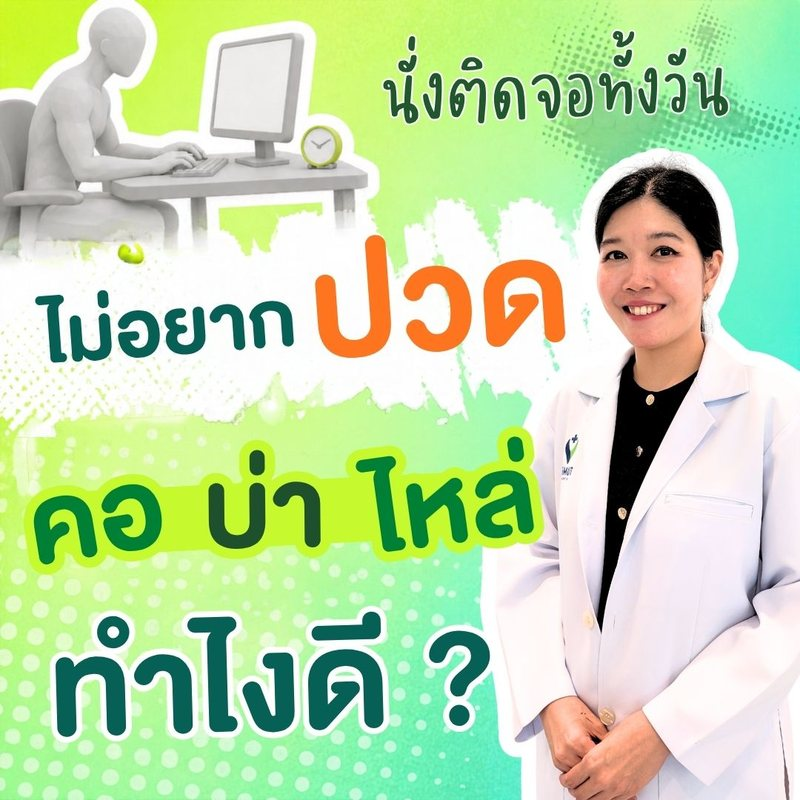
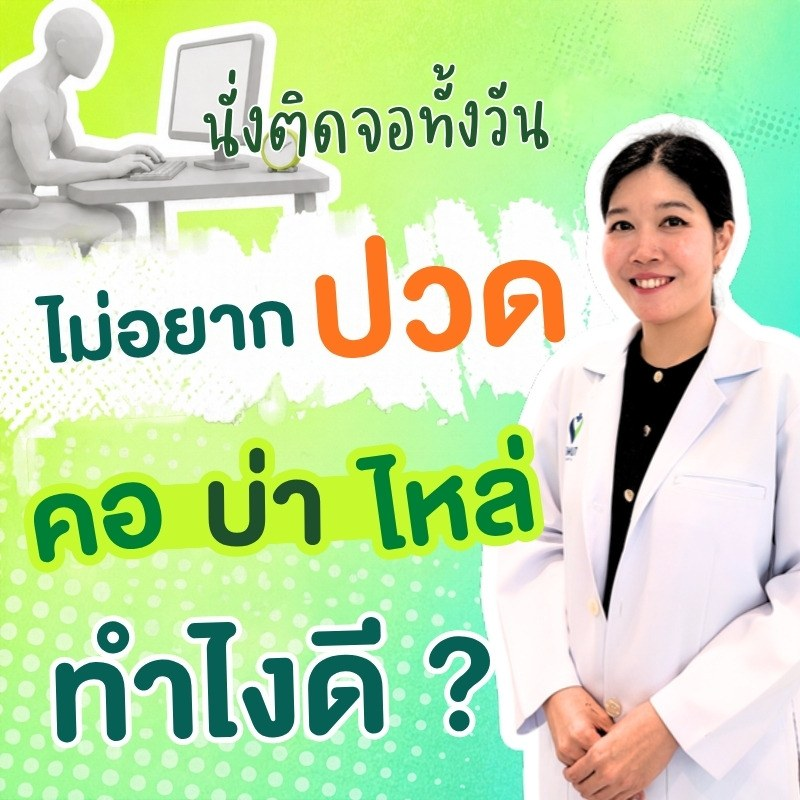
Fill SB Design Square clips, hide Project VTR, update BODY HACK cover
- SB Design Square: Mattress Expo now has its 3 public Facebook clips
  (concept, shoot, voiceover, edit) and moves up with the clip works.
- Per-clip format (vertical/horizontal): Facebook /videos/ can be
  vertical and /reel/ horizontal; the viewer frame follows the clip.
- Project VTR hidden (internal event). AIS Sports Day 2024 reel added
  hidden until the owner confirms their role.
- BODY HACK cover replaced with the revised Canva page 6.
- Cover checklist: free page order with a Canva page column.

Claude-Session: https://claude.ai/code/session_01QeH5SpQLZ7BwsZc6TsE6Mb

diff --git a/public/content.js b/public/content.js
@@ -466,6 +466,39 @@ window.WORKS = [
     details: { platform: "TikTok · vertical · 1:11 (2026)" },
   },
 
+  {
+    title: "SB Design Square: Mattress Expo",
+    // คลิปจากเพจ Mattress World (เพจที่นอนของ SB Design Square) · format = รูปทรงคลิป (เว็บเดาจากลิงก์ไม่ได้)
+    clips: [
+      { url: "https://www.facebook.com/reel/1368411784467787", label: "Mattress Expo: more deals than ever", format: "horizontal" },
+      { url: "https://www.facebook.com/SBMattressWorld/videos/1226994228963363/", label: "Everything in one place", format: "vertical" },
+      { url: "https://www.facebook.com/SBMattressWorld/videos/3974091859510343/", label: "Home and mattress deals in one trip", format: "vertical" },
+    ],
+    images: [{ src: "images/work/video-sb-design-square.jpg" }],   // ใช้เป็นปกสำรองจนกว่าจะมีปกทำเอง
+    categories: ["Short-form & Social"],
+    tags: ["UGC", "Review", "Product", "Voiceover"],
+    client: "SB Design Square",
+    year: "",   // TODO
+    role: ["Concept", "Shoot", "Voiceover", "Edit"],
+    highlight: "UGC-style promo clips for SB Design Square's Mattress Expo sale, made start to finish by me.",
+    details: {
+      platform: "Facebook · Mattress World page · 0:25 to 0:47 per clip",
+      responsibility: "Came up with the ideas, shot, voiced and edited all three clips.",
+    },
+  },
+  {
+    title: "AIS Sports Day 2024: Team Captains",
+    wip: true,   // ซ่อนไว้ก่อน: รอข้อมูลหน้าที่ (role) แล้วค่อยเอาออก
+    clips: ["https://www.facebook.com/reel/870470888570657"],
+    categories: ["Brand & Corporate", "Event & Creator Content", "Short-form & Social"],
+    tags: ["Event", "Teaser", "Facebook Reels"],
+    client: "AIS Club",
+    year: "2024",
+    role: [],   // TODO
+    highlight: "Pre-event teaser for AIS Sports Day 2024: how ready each colour team's captain is before the big day.",
+    details: { platform: "Facebook Reels · vertical · 1:07" },
+  },
+
   // ================= งานจากพอร์ต Canva เก่า (รูปอยู่ใน public/images/work) =================
   // ช่องที่เขียน TODO = ยังไม่มีข้อมูล เติมทีหลังได้ / ถ้าได้ลิงก์คลิป ใส่ใน clips: ["..."] แล้วรูปจะถูกแทนด้วยคลิป
 
@@ -665,16 +698,6 @@ window.WORKS = [
     },
   },
   {
-    title: "SB Design Square: Mattress Expo",
-    clips: [],   // TODO
-    images: [{ src: "images/work/video-sb-design-square.jpg" }],
-    categories: ["Short-form & Social"],
-    tags: ["Review", "Product"],
-    client: "SB Design Square",
-    role: [],   // TODO
-    highlight: "",   // TODO
-  },
-  {
     title: "Songkran Greeting: Before / After",
     clips: [],   // TODO
     images: [{ src: "images/work/video-songkran-ecard-before-after.jpg" }],
@@ -686,6 +709,7 @@ window.WORKS = [
   },
   {
     title: "Project VTR",
+    wip: true,   // ซ่อน: เป็นงานอีเวนต์ภายใน ยังไม่แน่ใจว่าแชร์คลิปได้
     clips: [],   // TODO
     images: [{ src: "images/work/video-project-vtr.jpg" }],
     categories: ["Brand & Corporate"],

diff --git a/public/app.js b/public/app.js
@@ -591,6 +591,9 @@
       cats: asList(w.categories || w.category),
       tagList: asList(w.tags),
       roles: mergeRoles(w.role, clipMeta[0] && clipMeta[0].role),
+      // รูปทรงคลิป: format ของคลิปนั้น > format ของทั้งงาน > เดาจากลิงก์
+      projectFormat: w.format,
+      format: (clipMeta[0] && clipMeta[0].format) || w.format,
       highlightText: w.highlight || w.description || "",
       info: info,
       original: original,
@@ -761,8 +764,10 @@
         });
         b.addEventListener("click", () => {
           if (b.getAttribute("aria-pressed") === "true") return;
-          const next = makePlayer(Object.assign({}, w, { url: u, thumbnail: i === 0 ? w.thumbnail : "" }));
+          const next = makePlayer(Object.assign({}, w, { url: u, format: w.clipMeta[i].format || w.projectFormat, thumbnail: i === 0 ? w.thumbnail : "" }));
           box.replaceChild(next.node, player.node);
+          // งานที่มีทั้งคลิปแนวตั้งและแนวนอน: ปรับกรอบให้ตามคลิปที่เลือก
+          if (box.parentNode) box.parentNode.classList.toggle("is-vertical", !!next.vertical);
           player = next;
           btns.forEach((x, k) => x.setAttribute("aria-pressed", String(k === i)));
           caption.textContent = labels[i] || "";

diff --git a/public/images/covers/README.md b/public/images/covers/README.md
@@ -15,9 +15,9 @@
 
 ## วิธีทำปก (ทยอยทำได้)
 
-1. **Canva:** ทำทุกปกในดีไซน์เดียวชื่อ **`Iggy Portfolio Covers`** ขนาด **800 × 800 px** · 1 หน้า = 1 ปก เรียงตามเลขหน้าในเช็กลิสต์ด้านล่าง
+1. **Canva:** ทำทุกปกในดีไซน์เดียวชื่อ **`Iggy Portfolio Covers`** ขนาด **800 × 800 px** · 1 หน้า = 1 ปก **เรียงหน้ายังไงก็ได้** Claude ดูภาพแล้วจับคู่กับงานให้ (ถ้าไม่แน่ใจจะถาม)
 2. **ไกด์มุมไอคอน:** วางไฟล์ [`design/cover-guide-800.png`](../../../design/cover-guide-800.png) ทับเต็มหน้า แล้ว**ซ่อนก่อนส่ง** (ดูข้อห้ามในหัวข้อ "กติกาปก")
-3. **ส่ง:** บอก Claude ว่า "ปกหน้า 2–6 เสร็จแล้ว" ไม่ต้องดาวน์โหลดเอง
+3. **ส่ง:** บอก Claude ว่า "ปกหน้า 2–6 เสร็จแล้ว" ไม่ต้องดาวน์โหลดเอง · Claude จดเลขหน้าไว้ในช่อง "หน้า Canva" ด้านล่าง
 4. **Claude:** ดึงหน้านั้นจาก Canva → ตั้งชื่อไฟล์ → ย่อให้ไม่เกิน 150 KB → เช็กบนจอคอมและมือถือ → ส่งภาพตัวอย่าง + ลิงก์ preview ใน PR
 5. **คุณ:** ดู preview แล้วกด Merge
 
@@ -36,43 +36,44 @@
 | ขอบ | เก็บของสำคัญไว้ในเส้นประ (ห่างขอบ 5%) |
 | เช็กก่อนส่ง | ไม่มีเศษเลเยอร์ค้าง · ซ่อนไกด์แล้ว |
 
-## เช็กลิสต์: หน้า Canva → ชื่อไฟล์
+## เช็กลิสต์ปก
 
-เลขหน้า Canva **ตายตัว** งานใหม่ต่อท้ายเป็นหน้าถัดไปเสมอ (ไม่แทรกกลาง) · Claude อัปเดตช่อง "ขึ้นเว็บ" ให้ทุกครั้งที่ใส่ปก
+Claude อัปเดตตารางนี้ทุกครั้งที่ใส่ปก · ✅ ขึ้นเว็บแล้ว · ⬜ ยังไม่มี · 🙈 งานถูกซ่อน (ไม่ต้องทำปกตอนนี้)
 
-| หน้า | ผลงาน | ชื่อไฟล์ | ขึ้นเว็บ |
-|---|---|---|---|
-| 1 | BODY HACK: Work Pain Podcast — EP.1 | `body-hack-work-pain-podcast-ep-1.jpg` | ✅ |
-| 2 | HR Chatbot Launch Animation | `hr-chatbot-launch-animation.jpg` | ⬜ |
-| 3 | AIS Club Launch: Employer Branding | `ais-club-launch-employer-branding.jpg` | ⬜ |
-| 4 | RoV Day 2026 at Siam | `rov-day-2026-at-siam.jpg` | ⬜ |
-| 5 | AI & VFX Edits for AIS | `ai-vfx-edits-for-ais.jpg` | ⬜ |
-| 6 | JUMP Thailand Hackathon 2026 | `jump-thailand-hackathon-2026.jpg` | ⬜ |
-| 7 | AIS Wellness: Hack Your Health | `ais-wellness-hack-your-health.jpg` | ⬜ |
-| 8 | MAKE IT CONTENT Workshop | `make-it-content-workshop.jpg` | ⬜ |
-| 9 | AIS 36th Anniversary | `ais-36th-anniversary.jpg` | ⬜ |
-| 10 | RoV 10th Anniversary Exhibition | `rov-10th-anniversary-exhibition.jpg` | ⬜ |
-| 11 | RoV Community Party | `rov-community-party.jpg` | ⬜ |
-| 12 | RoV × Pasulol Songkran Campaign | `rov-pasulol-songkran-campaign.jpg` | ⬜ |
-| 13 | Behind the Scenes: RoV Songkran Music Video | `behind-the-scenes-rov-songkran-music-video.jpg` | ⬜ |
-| 14 | AIS × 3BB Mascot | `ais-3bb-mascot.jpg` | ⬜ |
-| 15 | Character Design Proposals | `character-design-proposals.jpg` | ⬜ |
-| 16 | Sticker Sheets & LINE Stickers | `sticker-sheets-line-stickers.jpg` | ⬜ |
-| 17 | Internal Comms Infographics | `internal-comms-infographics.jpg` | ⬜ |
-| 18 | Staff Party TikTok Challenge | `staff-party-tiktok-challenge.jpg` | ⬜ |
-| 19 | Social Posts for AIS Club | `social-posts-for-ais-club.jpg` | ⬜ |
-| 20 | Podcast Summary Infographics | `podcast-summary-infographics.jpg` | ⬜ |
-| 21 | Rebranding: Visual Identity | `rebranding-visual-identity.jpg` | ⬜ |
-| 22 | Festival E-card | `festival-e-card.jpg` | ⬜ |
-| 23 | Instagram Filters | `instagram-filters.jpg` | ⬜ |
-| 24 | NFT Game Characters | `nft-game-characters.jpg` | ⬜ |
-| 25 | Competition Entries | `competition-entries.jpg` | ⬜ |
-| 26 | Better Content with Generative AI | `better-content-with-generative-ai.jpg` | ⬜ |
-| 27 | Internal Podcast (Video Series) | `internal-podcast-video-series.jpg` | ⬜ |
-| 28 | SB Design Square: Mattress Expo | `sb-design-square-mattress-expo.jpg` | ⬜ |
-| 29 | Songkran Greeting: Before / After | `songkran-greeting-before-after.jpg` | ⬜ |
-| 30 | Project VTR | `project-vtr.jpg` | ⬜ |
-| 31 | AIS × 3BB Mascot Animation | `ais-3bb-mascot-animation.jpg` | ⬜ |
+| # | ผลงาน | ชื่อไฟล์ | หน้า Canva | ขึ้นเว็บ |
+|---|---|---|---|---|
+| 1 | BODY HACK: Work Pain Podcast — EP.1 | `body-hack-work-pain-podcast-ep-1.jpg` | 6 | ✅ |
+| 2 | HR Chatbot Launch Animation | `hr-chatbot-launch-animation.jpg` |  | ⬜ |
+| 3 | AIS Club Launch: Employer Branding | `ais-club-launch-employer-branding.jpg` |  | ⬜ |
+| 4 | RoV Day 2026 at Siam | `rov-day-2026-at-siam.jpg` |  | ⬜ |
+| 5 | AI & VFX Edits for AIS | `ai-vfx-edits-for-ais.jpg` |  | ⬜ |
+| 6 | JUMP Thailand Hackathon 2026 | `jump-thailand-hackathon-2026.jpg` |  | ⬜ |
+| 7 | AIS Wellness: Hack Your Health | `ais-wellness-hack-your-health.jpg` |  | ⬜ |
+| 8 | MAKE IT CONTENT Workshop | `make-it-content-workshop.jpg` |  | ⬜ |
+| 9 | AIS 36th Anniversary | `ais-36th-anniversary.jpg` |  | ⬜ |
+| 10 | RoV 10th Anniversary Exhibition | `rov-10th-anniversary-exhibition.jpg` |  | ⬜ |
+| 11 | RoV Community Party | `rov-community-party.jpg` |  | ⬜ |
+| 12 | RoV × Pasulol Songkran Campaign | `rov-pasulol-songkran-campaign.jpg` |  | ⬜ |
+| 13 | Behind the Scenes: RoV Songkran Music Video | `behind-the-scenes-rov-songkran-music-video.jpg` |  | ⬜ |
+| 14 | AIS × 3BB Mascot | `ais-3bb-mascot.jpg` |  | ⬜ |
+| 15 | Character Design Proposals | `character-design-proposals.jpg` |  | ⬜ |
+| 16 | Sticker Sheets & LINE Stickers | `sticker-sheets-line-stickers.jpg` |  | ⬜ |
+| 17 | Internal Comms Infographics | `internal-comms-infographics.jpg` |  | ⬜ |
+| 18 | Staff Party TikTok Challenge | `staff-party-tiktok-challenge.jpg` |  | ⬜ |
+| 19 | Social Posts for AIS Club | `social-posts-for-ais-club.jpg` |  | ⬜ |
+| 20 | Podcast Summary Infographics | `podcast-summary-infographics.jpg` |  | ⬜ |
+| 21 | Rebranding: Visual Identity | `rebranding-visual-identity.jpg` |  | ⬜ |
+| 22 | Festival E-card | `festival-e-card.jpg` |  | ⬜ |
+| 23 | Instagram Filters | `instagram-filters.jpg` |  | ⬜ |
+| 24 | NFT Game Characters | `nft-game-characters.jpg` |  | ⬜ |
+| 25 | Competition Entries | `competition-entries.jpg` |  | ⬜ |
+| 26 | Better Content with Generative AI | `better-content-with-generative-ai.jpg` |  | ⬜ |
+| 27 | Internal Podcast (Video Series) | `internal-podcast-video-series.jpg` |  | ⬜ |
+| 28 | SB Design Square: Mattress Expo | `sb-design-square-mattress-expo.jpg` |  | ⬜ |
+| 29 | Songkran Greeting: Before / After | `songkran-greeting-before-after.jpg` |  | ⬜ |
+| 30 | Project VTR | `project-vtr.jpg` |  | 🙈 |
+| 31 | AIS × 3BB Mascot Animation | `ais-3bb-mascot-animation.jpg` |  | ⬜ |
+| 32 | AIS Sports Day 2024: Team Captains | `ais-sports-day-2024-team-captains.jpg` |  | 🙈 |
 
 > ถ้าเปลี่ยนชื่องานใน content.js ชื่อไฟล์ปกก็ต้องเปลี่ยนตาม (ตัวอักษรเล็ก เว้นวรรคเป็น -)
 > หรือจะระบุไฟล์เองก็ได้: ใส่ `cover: "images/covers/ชื่อไฟล์.jpg"` ในผลงานนั้น

diff --git a/CLAUDE.md b/CLAUDE.md
@@ -28,13 +28,13 @@ The owner's editing guide (Thai) is `HOW-TO.md`. Keep both files up to date when
 
 - **Modes** (cover folders and WORK groups): `graphic` accent #FE6D73, `video` #FFB400, `animation` #DD88C1. A work's mode comes from its **first** category, matched against `modes[].filter`.
 - **Categories:** Graphic Design, Character & Illustration, Presentation & Teaching → graphic. Short-form & Social, Brand & Corporate, Event & Creator Content, Podcast & Long-form → video. Motion & Animation → animation.
-- **Work fields:** title, clips (string or `{url,label,role}`), images (string or `{src,caption}`), categories, tags, client, year, role[], highlight, details{platform,brief,responsibility,results,resultsSource,tools}, links, featured, ongoing, wip (hidden), cover, coverFocus, thumbnail (fallback cover for a clip).
+- **Work fields:** title, clips (string or `{url,label,role}`), images (string or `{src,caption}`), categories, tags, client, year, role[], highlight, details{platform,brief,responsibility,results,resultsSource,tools}, links, format (`vertical`/`horizontal`, on the work or on a single clip object; overrides the guess from the link), featured, ongoing, wip (hidden), cover, coverFocus, thumbnail (fallback cover for a clip).
 - **Roles** are grouped into phases DESIGN / PRE-PROD / PRODUCTION / POST-PROD / PUBLISH. The owner likes describing video work by pre-production, production and post-production.
 - **Cover lookup:** `w.cover` → `images/covers/<slug>.jpg` → auto thumbnail (YouTube, or `images/thumbs/tt-<id>.jpg` for TikTok) → first image → pixel sprite. `slugOf` = title lowercased, non-alphanumerics become `-`.
 - **`cardStyle`:** `"polaroid"` (title under the image, current) or `"overlay"` (title on a gradient). It sets an html class `cards-<style>`. Overlay applies to the XP-window grid and to desktop WORK only; the mobile list is unaffected.
 - **Side projects** (`sideProjects`): smilenoout (page), fonts (Gumroad), freebies, personal. Each has its own colour. Stats need `asOf`.
 - **Image folders:** `images/profile.jpg`, `images/about-1..12.jpg` (4:5), `images/covers/` (1:1, 800×800), `images/work/`, `images/peek/<id>-1..3.jpg` (3:4), `images/thumbs/` (generated by Claude), `character/base.gif` (transparent) and `character/<mode>/1..6.png` outfits. Specs are in `HOW-TO.md` §1 and the folder READMEs.
-- **Current state:** 31 live works (13 graphic, 16 video, 2 animation). Latest: "BODY HACK: Work Pain Podcast — EP.1" (YouTube, first in WORKS and featured, so it leads the Video folder). Many fields are still `// TODO` for the owner to fill. Run the check page to see them.
+- **Current state:** 30 live works (13 graphic, 15 video, 2 animation) plus 2 hidden (`wip`): Project VTR (internal event, may not be shareable) and AIS Sports Day 2024 (waiting for the owner's role). Latest: "BODY HACK: Work Pain Podcast — EP.1" (YouTube, first in WORKS and featured, so it leads the Video folder). Many fields are still `// TODO` for the owner to fill. Run the check page to see them.
 
 ## Design system
 
@@ -64,7 +64,9 @@ The owner's editing guide (Thai) is `HOW-TO.md`. Keep both files up to date when
 
 - Use only figures the owner gave (annual review, old Canva portfolio, messages). Never invent numbers, clients or results. Put unknowns as `""` with `// TODO`.
 - If a link (Notion, Drive, Canva) can't be opened, say so. Don't guess its content.
-- Only publicly shareable work info goes on the site.
+- Only publicly shareable work info goes on the site. Internal-event clips the owner isn't sure about get `wip: true`, not deleted.
+- **Facebook links:** `share/v/…` links resolve to `facebook.com/<page>/videos/<id>/`; store that canonical URL. FB `/videos/` can be vertical and `/reel/` can be horizontal, so check the real shape and set `format` per clip.
+- **SB Design Square (freelance, Mattress World page):** the owner did concept, shoot, voiceover and edit. Whether the posts were boosted is unknown, so never cite their views.
 - **ais_club (TikTok/IG):** the channel informs AIS staff about activities (what, why it matters to them, how to join) and builds the employer brand for outsiders through real staff stories. The owner is a Content Creator in the Internal Communication team who takes briefs to produce its clips. **In 2026 the owner does graphics and video editing only, not content ideation**, so don't credit "Concept" on 2026 ais_club clips.
 - **Work Pain Podcast:** only EP.1 is on the site. Keep internal process notes and EP.2 off the site until the owner says otherwise. No view counts or results without proof.
 
@@ -77,7 +79,7 @@ The owner's editing guide (Thai) is `HOW-TO.md`. Keep both files up to date when
 - **Testing:** `python3 -m http.server 8765` in `public/`, then Playwright (pre-installed) on desktop 1440×900 and mobile 390×844. Check for `pageerror`, look at screenshots, and send them to the owner. `node --check public/app.js` after JS edits.
 - **TikTok covers for new clips:** fetch the oEmbed thumbnail, save it as `images/thumbs/tt-<id>.jpg` at 540px wide. Slide images are cropped square into `images/thumbs/`.
 - **YouTube covers:** YouTube's auto `hqdefault` has black bars that show in square tiles. Save `maxresdefault` at 960×540 as `images/thumbs/yt-<id>.jpg` and set `thumbnail:` on the work (used by the tile and the player facade; the check page counts it as an auto cover).
-- **Custom covers flow:** the owner designs every cover in one Canva design named `Iggy Portfolio Covers` (800×800, one page per cover). Page numbers are fixed in the checklist in `public/images/covers/README.md` (new works get the next number, never inserted). When the owner says which pages are done, find the design with the Canva connector (`search-designs`), `export-design` those pages as JPG, save each as `images/covers/<slug>.jpg` (800×800, ≤150 KB), tick "ขึ้นเว็บ" in the checklist, run the Playwright check, send screenshots and push to the round's PR. Fallback: the owner drops JPGs in chat with page numbers. Don't ask the owner to upload to GitHub. The safe-zone guide is `design/cover-guide-800.png` (outside `public/`, so not deployed): the corner badge covers about 28%×20% of a tile on desktop and up to 45%×30% on mobile.
+- **Custom covers flow:** the owner designs every cover in one Canva design named `Iggy Portfolio Covers` (800×800, one page per cover). The owner orders pages freely, so match each page to a work by looking at it (ask if unsure) and record the page in the "หน้า Canva" column of the checklist in `public/images/covers/README.md`. When the owner says which pages are done, find the design with the Canva connector (`search-designs`), `export-design` those pages as JPG, save each as `images/covers/<slug>.jpg` (800×800, ≤150 KB), tick "ขึ้นเว็บ" in the checklist (🙈 = hidden work), run the Playwright check, send screenshots and push to the round's PR. Fallback: the owner drops JPGs in chat with page numbers. Don't ask the owner to upload to GitHub. The safe-zone guide is `design/cover-guide-800.png` (outside `public/`, so not deployed): the corner badge covers about 28%×20% of a tile on desktop and up to 45%×30% on mobile.
 - When a change affects how the owner edits (new content.js key, new image folder or size), update `HOW-TO.md`, the folder README, the check page and this file in the same PR.
 
 ## Open items (as of Nov 2026)

diff --git a/HOW-TO.md b/HOW-TO.md
@@ -113,7 +113,7 @@ Cloudflare → Workers & Pages → `iggy-portfolio` → **Deployments** → `…
 | ช่อง | ต้องมีไหม | ใส่อะไร |
 |---|---|---|
 | `title` | ✅ | ชื่องาน (ใช้ตั้งชื่อไฟล์ปกด้วย) |
-| `clips` | อย่างใดอย่างหนึ่ง | ลิงก์คลิป ใส่ได้หลายอัน (มีปุ่ม 1 2 3) · ถ้าแต่ละคลิปทำหน้าที่ต่างกัน: `{ url: "…", label: "ชื่อคลิป", role: ["Edit"] }` |
+| `clips` | อย่างใดอย่างหนึ่ง | ลิงก์คลิป ใส่ได้หลายอัน (มีปุ่ม 1 2 3) · ถ้าแต่ละคลิปทำหน้าที่ต่างกัน: `{ url: "…", label: "ชื่อคลิป", role: ["Edit"] }` · คลิปขึ้นผิดทรง (เช่นลิงก์ Facebook `/videos/` ที่เป็นแนวตั้ง) ใส่ `format: "vertical"` หรือ `"horizontal"` ในคลิปนั้น |
 | `images` | อย่างใดอย่างหนึ่ง | รูปในแกลเลอรี · ใส่คำบรรยายได้: `{ src: "images/work/x.jpg", caption: "…" }` |
 | `categories` | ✅ | หมวด (สะกดตรงกับรายการด้านล่าง) **หมวดแรก = โฟลเดอร์ที่งานไปอยู่** |
 | `tags` | | คำย่อยหลัง # |
@@ -146,7 +146,7 @@ Cloudflare → Workers & Pages → `iggy-portfolio` → **Deployments** → `…
 
 ### ปกผลงาน
 
-**ทำปกเอง:** ทำใน Canva ดีไซน์ `Iggy Portfolio Covers` แล้วบอก Claude ว่าหน้าไหนเสร็จ ขั้นตอน กติกามุมไอคอน และเช็กลิสต์อยู่ใน [`images/covers/README.md`](public/images/covers/README.md)
+**ทำปกเอง:** ทำใน Canva ดีไซน์ `Iggy Portfolio Covers` (เรียงหน้ายังไงก็ได้) แล้วบอก Claude ว่าหน้าไหนเสร็จ ขั้นตอน กติกามุมไอคอน และเช็กลิสต์อยู่ใน [`images/covers/README.md`](public/images/covers/README.md)
 
 ลำดับที่เว็บเลือกปก: `cover` ที่ระบุเอง → `images/covers/<ชื่องาน>.jpg` → ปกอัตโนมัติ → รูปแรกในแกลเลอรี → ไอคอนพิกเซล
 
